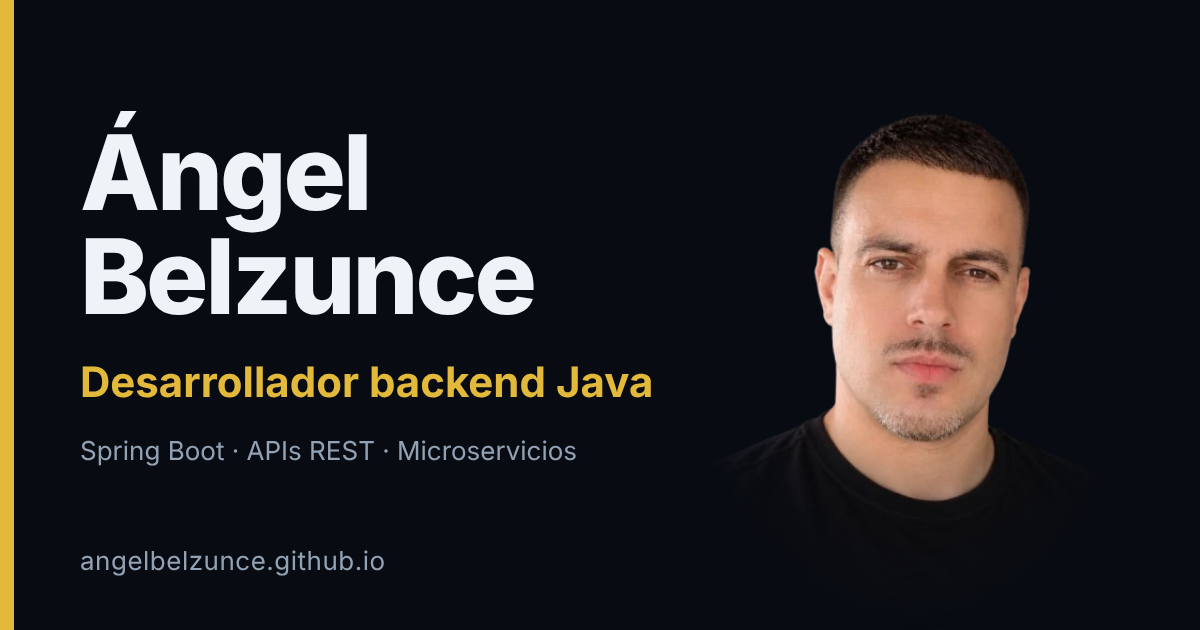
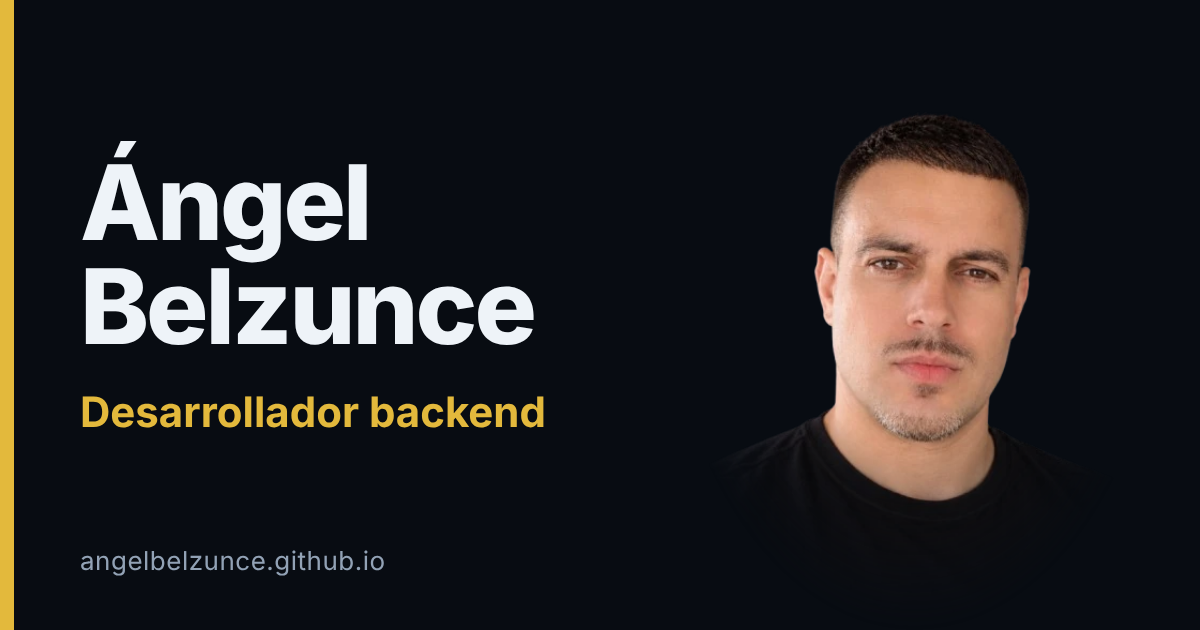
Tarjeta para compartir: solo nombre y rol
Claude-Session: https://claude.ai/code/session_01Q7DGkeB4fnNhxLYrnrBSXP

Changed region(s): [[0.0617, 0.181, 0.4625, 0.5429], [0.0617, 0.573, 0.555, 0.754]]

diff --git a/index.html b/index.html
@@ -10,15 +10,15 @@
 <meta property="og:type" content="website">
 <meta property="og:locale" content="es_ES">
 <meta property="og:site_name" content="Ángel Belzunce">
-<meta property="og:title" content="Ángel Belzunce · Desarrollador backend Java">
+<meta property="og:title" content="Ángel Belzunce · Desarrollador backend">
 <meta property="og:description" content="APIs REST, microservicios con Kafka y aplicaciones móviles con Flutter y Firebase. Java y Spring Boot.">
 <meta property="og:url" content="https://angelbelzunce.github.io/">
 <meta property="og:image" content="https://angelbelzunce.github.io/og.png">
 <meta property="og:image:width" content="1200">
 <meta property="og:image:height" content="630">
-<meta property="og:image:alt" content="Ángel Belzunce, desarrollador backend Java">
+<meta property="og:image:alt" content="Ángel Belzunce, desarrollador backend">
 <meta name="twitter:card" content="summary_large_image">
-<meta name="twitter:title" content="Ángel Belzunce · Desarrollador backend Java">
+<meta name="twitter:title" content="Ángel Belzunce · Desarrollador backend">
 <meta name="twitter:description" content="APIs REST, microservicios con Kafka y aplicaciones móviles con Flutter y Firebase. Java y Spring Boot.">
 <meta name="twitter:image" content="https://angelbelzunce.github.io/og.png">
 <link rel="icon" type="image/svg+xml" href="favicon.svg">
